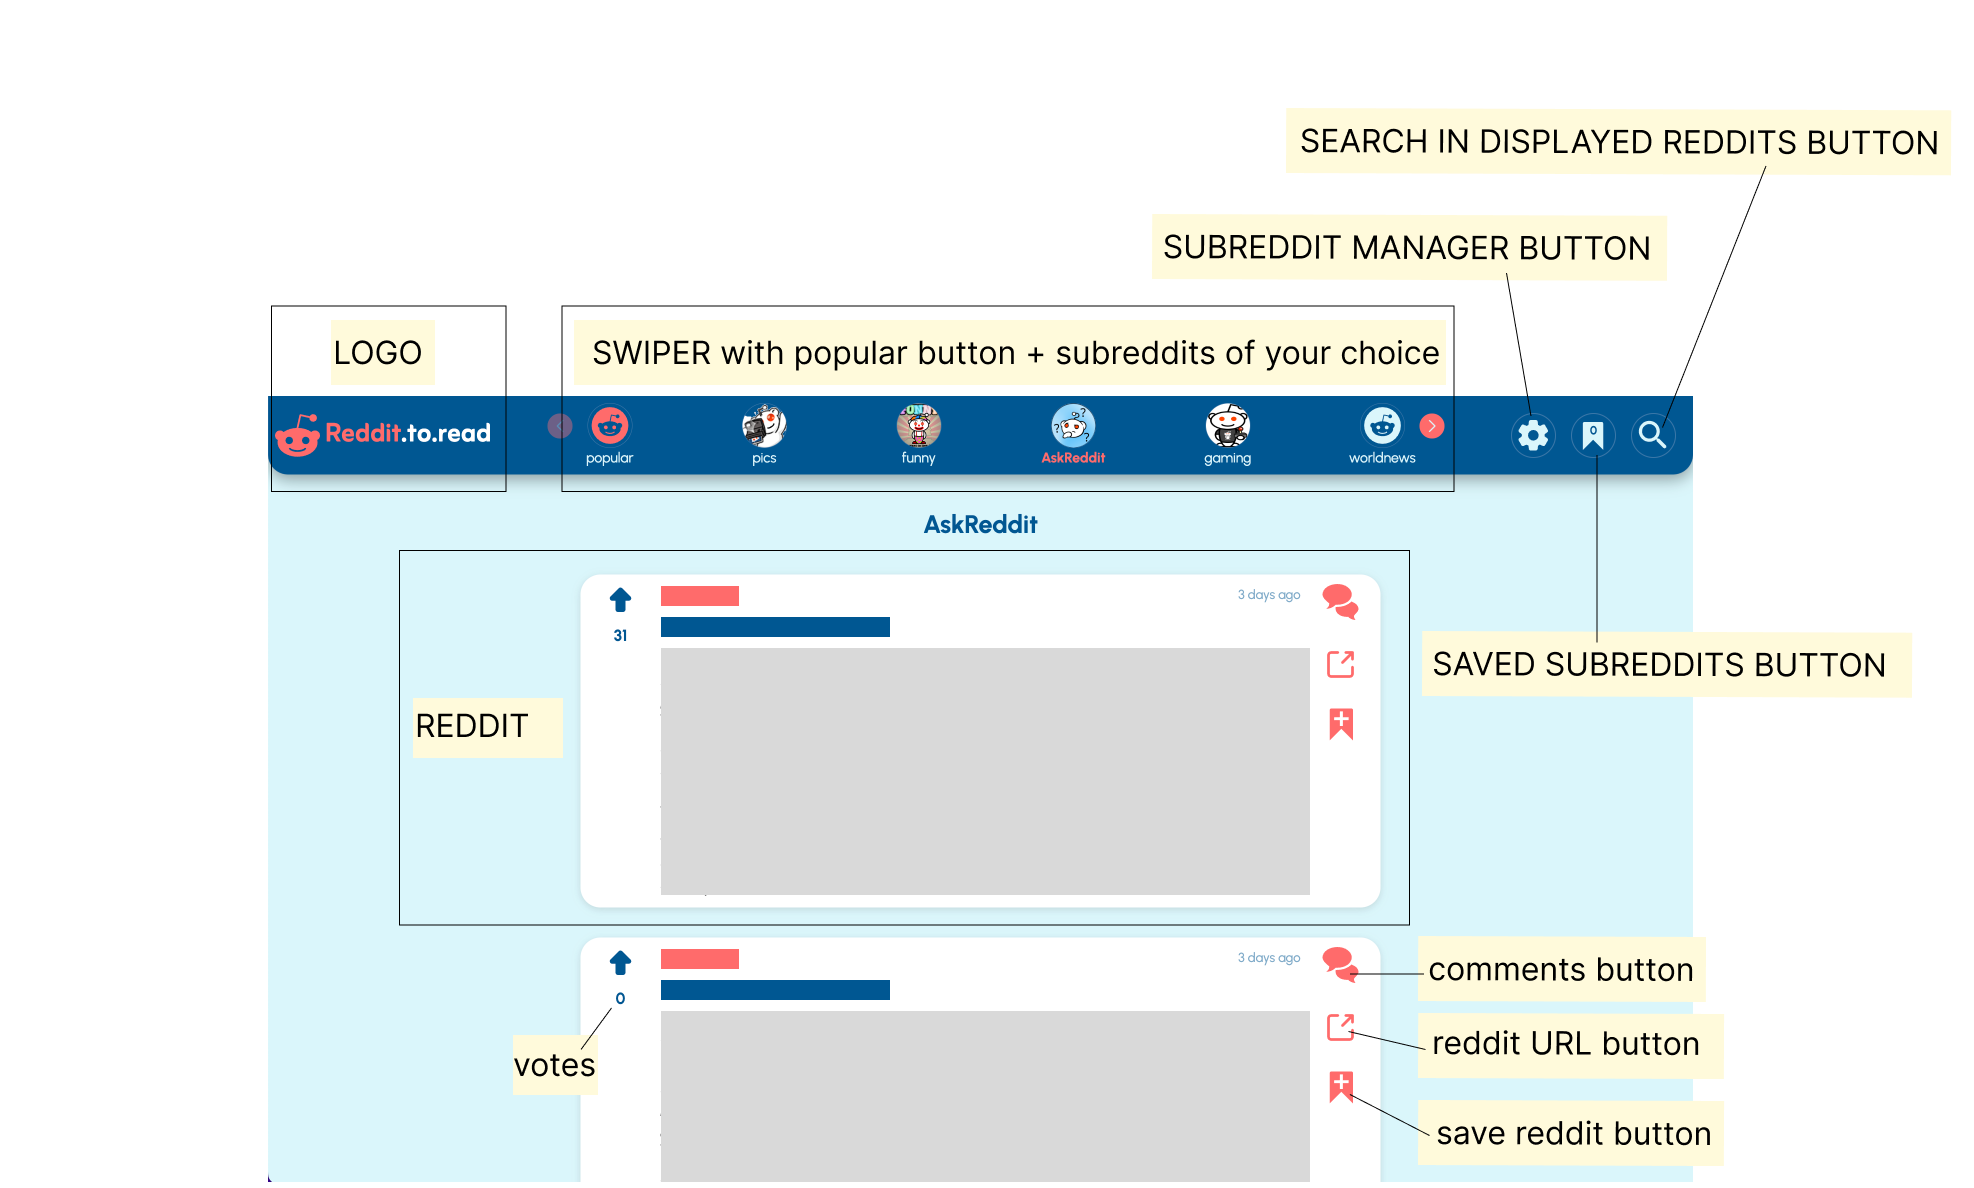
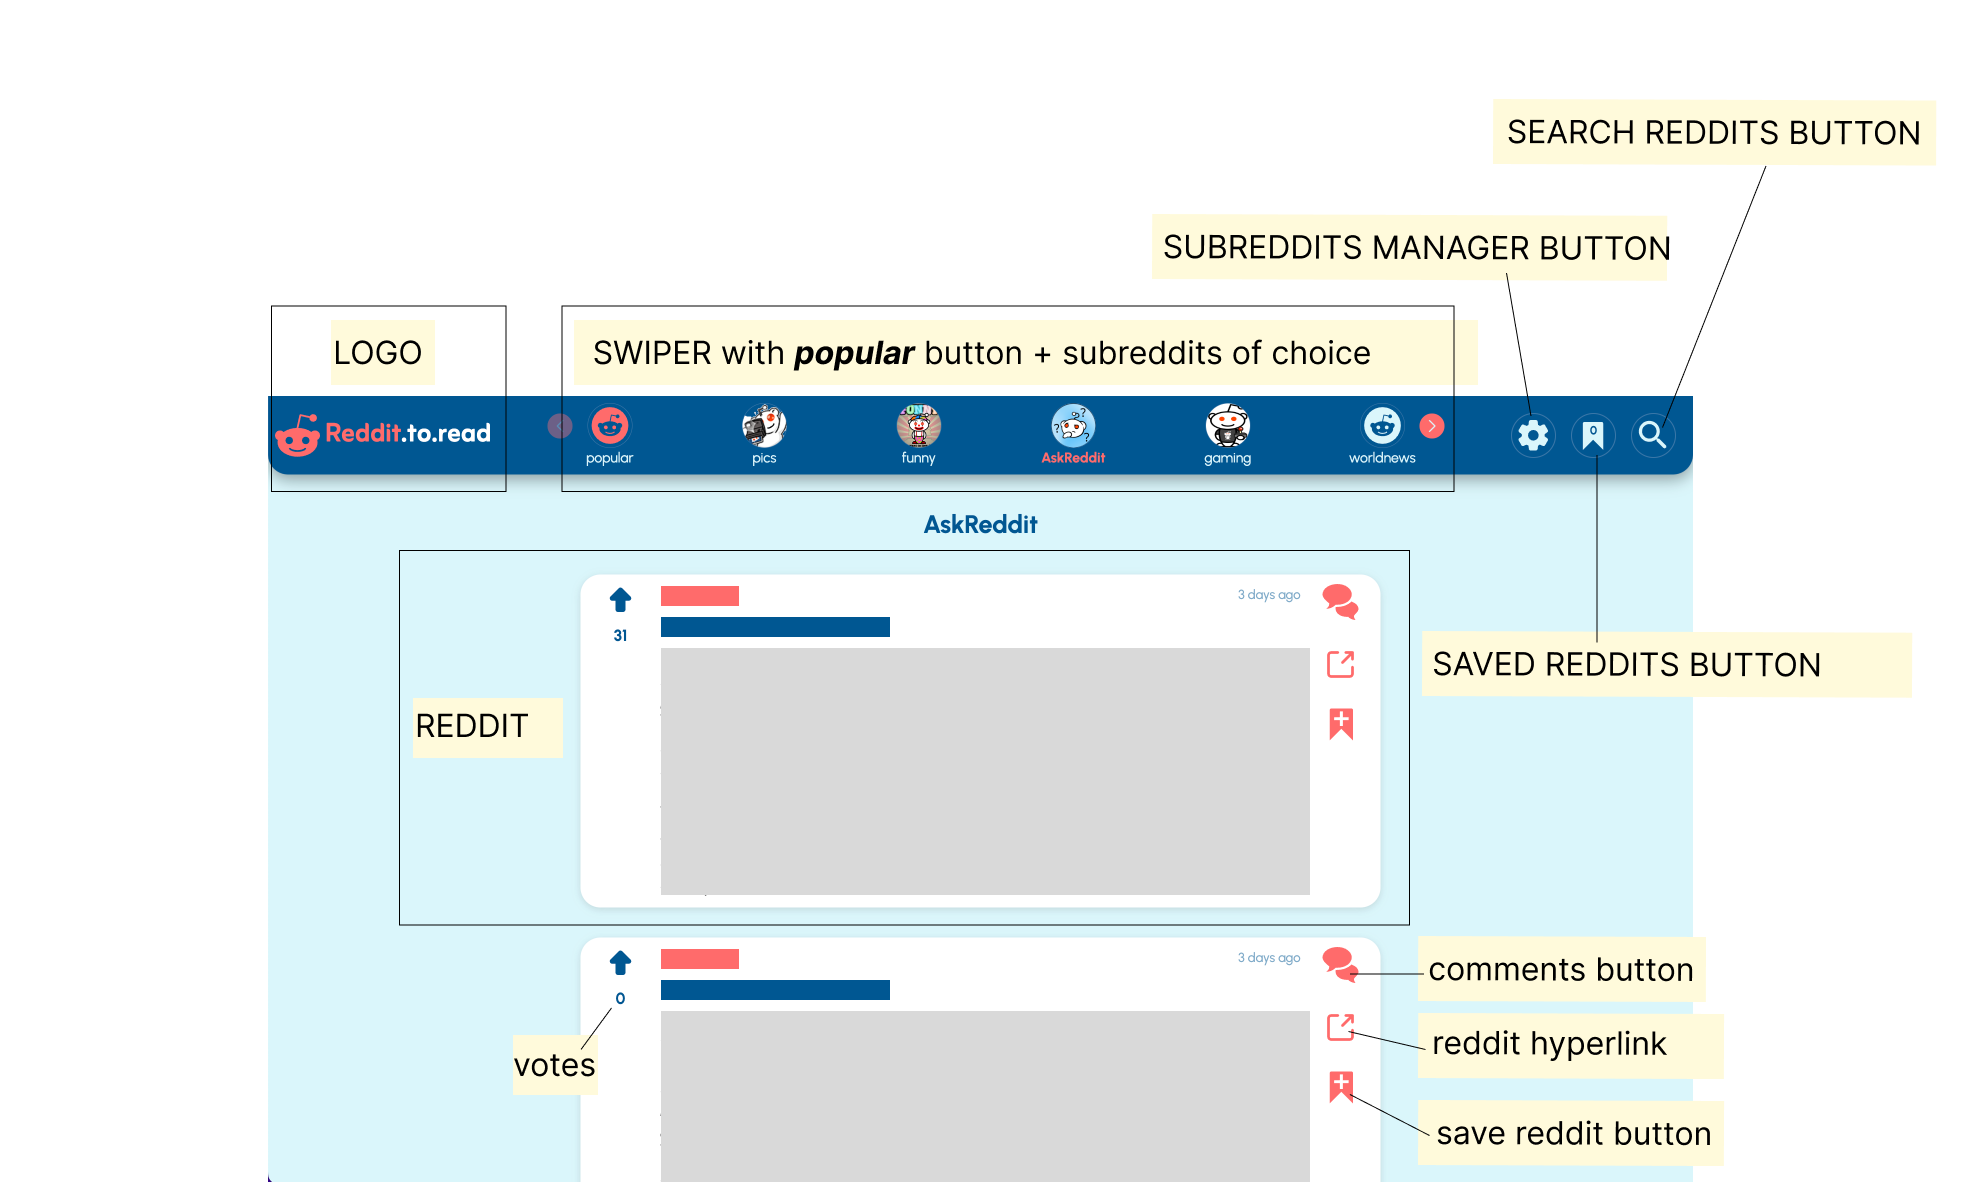
readme-img change

diff --git a/README.md b/README.md
@@ -42,7 +42,7 @@ Subreddits displayed in SWIPER can be changed depending on user`s interests. Cli
 * After inputting a search query and clicking search submit button, a request is for subreddits is send and results appear below.
 * Subreddit boxes in search results can be added to My Subreddits selection by clicking their plus button, located on the same place as delete button of already added subreddits
 
-### Browsing Rreddit posts
+### Browsing reddit posts
 
 Reddit posts (Reddits) for various topics show up after clicking on different subreddits on the swiper next to the app logo. 
 Popular is the first navigation link on the swiper, serves to display the most popular current reddits worldwide and cannot be removed.
